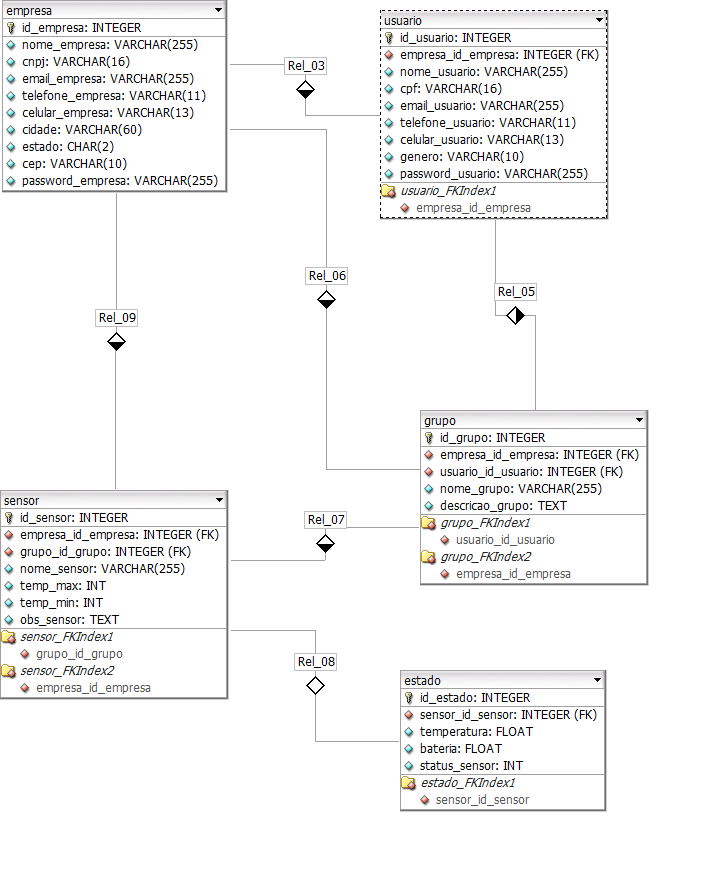
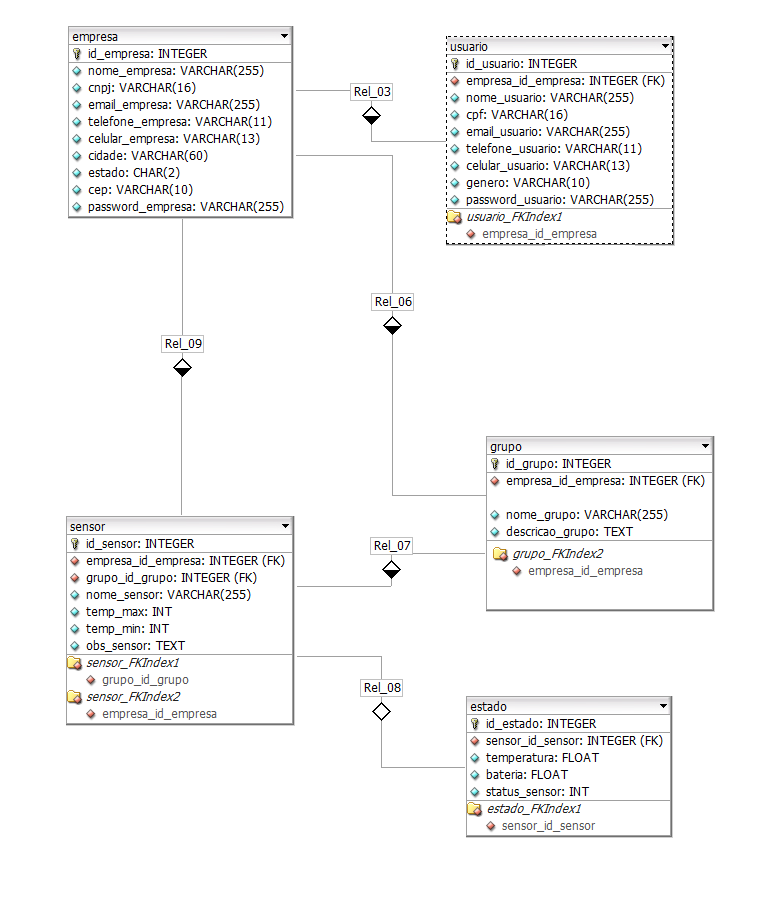
O site já está funcionando mais ou menos, mas ainda falta umas coisas aí. Checkpoint - Paramos no Obs do sensor

diff --git a/omega/resources/views/sensores/index.blade.php b/omega/resources/views/sensores/index.blade.php
@@ -5,10 +5,10 @@
         <h1 class="text-center">{{$data['grupo'] -> nome}}</h1>
         <div class="row float-right especifico" style="font-size: 30px; color: rgba(0,0,0,.50); padding: 0;">
             <div class="col-2" style="margin-right: 15px">
-                <a href="/sensores/{{$data['id']}}/create" class="gray-link"><i class="fas fa-plus"></i></a>
+                <a href="/sensores/{{$data['grupo'] -> id_grupo}}/create" class="gray-link"><i class="fas fa-plus"></i></a>
             </div>
             <div class="col-2">
-                <a href="/sensores/{{$data['grupo'] -> id}}/lista" class="gray-link"><i class="fas fa-list-ul"></i></a>
+                <a href="/sensores/{{$data['grupo'] -> id_grupo}}/lista" class="gray-link"><i class="fas fa-list-ul"></i></a>
             </div>
         </div>
         <div class="row col-12 mx-auto" style="padding: 20px 0 0 0;">
@@ -17,16 +17,16 @@
                     <!-- Card Personalizado -->
                     <div class="container-fluid col-md-4" style="padding-bottom: 75px; margin-bottom: 0">
                         <div class="row">
-                            <div class="col-6"><a href="/sensor/{{$sensor->id}}" class="gray-link" style="color: rgba(0,0,0,0.85); font-size: 25px">{{$sensor -> nome}}</a></div>
+                            <div class="col-6"><a href="/sensor/{{$sensor->id_sensor}}" class="gray-link" style="color: rgba(0,0,0,0.85); font-size: 25px">{{$sensor -> nome_sensor }}</a></div>
                             <div class="col-4 float-right my-auto">
                                 <p class=" float-right" style="color: #218536;">{{$sensor -> bateria}}% <i class="fas fa-battery-full iconBateria"></i></p>
                             </div>
                             <div class="col-2">
-                                <a class="gray-link" href="/sensor/{{$sensor -> id}}/edit"><i class="fas fa-cog d-inline float-right"></i></a>
+                                <a class="gray-link" href="/sensor/{{$sensor -> id_sensor}}/edit"><i class="fas fa-cog d-inline float-right"></i></a>
                             </div>
                         </div>
                             <div class="corpo">
-                                <div id="sensor{{$sensor -> id}}" class="mx-auto" style="width: 200px; height: 100px; padding-top: 10px">
+                                <div id="sensor{{$sensor -> id_sensor}}" class="mx-auto" style="width: 200px; height: 100px; padding-top: 10px">
                                 <!-- AQUI FICA O GRÁFICO -->
                                 </div>
                                 <div class="col text-right" style="margin-top: 50px;"><p class="hora" style="color: rgba(0,0,0,0.85)">{{$sensor -> updated_at}}</p></div>
@@ -36,7 +36,7 @@
                 @endforeach
             @else
                 <div class="alert alert-info col-12 text-center mx-auto" role="alert">
-                    Você não possui nenhum sensor, clique  <a href="/sensores/{{$data['id']}}/create" class="alert-link">aqui</a> para adicionar um.
+                    Você não possui nenhum sensor, clique  <a href="/sensores/{{$data['grupo'] -> id_grupo  }}/create" class="alert-link">aqui</a> para adicionar um.
                 </div>
             @endif
         </div>

diff --git a/omega/resources/views/pages/cadastro.blade.php b/omega/resources/views/pages/cadastro.blade.php
@@ -11,7 +11,7 @@
                 <h3>Empresa</h3>
                 <div class="form-row">
                     <!-- NOME DA EMPRESA -->
-                    <div class="form-group{{ $errors->has('nomeempresa') ? ' has-error' : '' }} col-md-6">
+                    <div class="form-group{{ $errors->has('nome_empresa') ? ' has-error' : '' }} col-md-6">
                         <label for="nome_empresa">Nome Empresa</label>
                         <input id="nome_empresa" type="text" class="form-control" name="nome_empresa" value="{{ old('nome_empresa') }}" required autofocus placeholder="Nome da empresa">
 
@@ -49,24 +49,24 @@
 
                     <!-- TELEFONE 1 -->
                     <div class="form-group col-md-3">
-                        <label for="telefone_1_empresa">Telefone</label>
-                        <input type="tel" class="form-control" id="telefone_1_empresa" name="telefone_1_empresa" value="{{ old('telefone_1_empresa') }}" data-mask="(00) 0000-0000" required placeholder="(00) 0000-0000">
+                        <label for="telefone_empresa">Telefone</label>
+                        <input type="tel" class="form-control" id="telefone_empresa" name="telefone_empresa" value="{{ old('telefone_empresa') }}" data-mask="(00) 0000-0000" required placeholder="(00) 0000-0000">
 
-                        @if ($errors->has('telefone_1_empresa'))
+                        @if ($errors->has('telefone_empresa'))
                             <span class="help-block">
-                                <strong>{{ $errors->first('telefone_1_empresa') }}</strong>
+                                <strong>{{ $errors->first('telefone_empresa') }}</strong>
                             </span>
                         @endif
                     </div>
 
                     <!-- TELEFONE 2 -->
                     <div class="form-group col-md-3">
-                        <label for="telefone_2_empresa">Celular</label>
-                        <input type="tel" class="form-control" id="telefone_2_empresa" name="telefone_2_empresa" value="{{ old('telefone_2_empresa') }}" data-mask="(00) 00000-0000" required placeholder="(00) 00000-0000">
+                        <label for="celular_empresa">Celular</label>
+                        <input type="tel" class="form-control" id="celular_empresa" name="celular_empresa" value="{{ old('celular_empresa') }}" data-mask="(00) 00000-0000" required placeholder="(00) 00000-0000">
 
-                        @if ($errors->has('telefone_2_empresa'))
+                        @if ($errors->has('celular_empresa'))
                             <span class="help-block">
-                                <strong>{{ $errors->first('telefone_2_empresa') }}</strong>
+                                <strong>{{ $errors->first('celular_empresa') }}</strong>
                             </span>
                         @endif
                     </div>

diff --git a/omega/resources/views/sensores/sensor.blade.php b/omega/resources/views/sensores/sensor.blade.php
@@ -2,15 +2,15 @@
 
 @section('content')
     <div class="container col-12">
-        <a class="gray-link" href="/sensores/{{$sensor -> grupo_id}}" style="font-size: 35px; position: relative; z-index: 999;"><i class="fas fa-long-arrow-alt-left"></i></a>
+        <a class="gray-link" href="/sensores/{{$sensor -> grupo_id_grupo}}" style="font-size: 35px; position: relative; z-index: 999;"><i class="fas fa-long-arrow-alt-left"></i></a>
         <div class="col-12" style="margin-top: -50px;">
-            <h1 class="text-center" style="color: #4b4b4b; margin-top: 10px;">{{$sensor -> nome}} #{{$sensor -> id}}</h1>
+            <h1 class="text-center" style="color: #4b4b4b; margin-top: 10px;">{{$sensor -> nome_sensor}} #{{$sensor -> id_sensor}}</h1>
         </div>
         <div class="container col-12" style="padding-top: 20px;">
            <div class="row container-temp-chart">
                 <!-- Temperatura -->
                 <div class="col-lg-6 col-md-12">
-                    <div id="sensor{{$sensor -> id}}" class="col-12 mx-auto" style="width: 400px; height: 200px; padding-top: 10px;">
+                    <div id="sensor{{$sensor -> id_sensor}}" class="col-12 mx-auto" style="width: 400px; height: 200px; padding-top: 10px;">
                         <!-- AQUI FICA O GRÁFICO -->
                     </div>
                 </div>
@@ -39,7 +39,7 @@
                    {!! Form::open(['action' => ['SensoresController@updateSensor', $sensor -> id], 'method' => 'POST']) !!}
                        {{Form::label('obs', 'Observações')}}
                        {{Form::textarea('obs', $sensor -> obs, ['class' => 'form-control', 'rows' => '6'])}}
-                   {{ Form::hidden('grupo_id', $sensor -> grupo_id)}}
+                   {{ Form::hidden('grupo_id', $sensor -> grupo_id_grupo)}}
                    {{Form::hidden('_method', 'PUT')}}
                    {{Form::submit('Salvar', ['class' => 'btn btn-outline-primary float-right', 'style' => 'margin-top: 5px'])}}
                    {!! Form::close() !!}

diff --git a/omega/resources/views/sensores/adicionarSensor.blade.php b/omega/resources/views/sensores/adicionarSensor.blade.php
@@ -2,21 +2,24 @@
 
 @section('content')
     <div class="container mx-auto" style="margin-top: 50px;">
+
+        <?php echo $id ?>
+
         <!-- GRUPO -->
         <div class="col-md-6 mx-auto">
             <h3>Adicionar Sensor</h3>
             {!! Form::open(['action' => 'SensoresController@store', 'method' => 'POST', 'novalidate', 'class' => 'needs-validation']) !!}
                 <div class="form-group">
-                    {{Form::label('nome', 'Nome')}}
-                    {{Form::text('nome', '', ['class' => 'form-control', 'placeholder' => 'Nome do Sensor', 'required'])}}
+                    {{Form::label('nome_sensor', 'Nome')}}
+                    {{Form::text('nome_sensor', '', ['class' => 'form-control', 'placeholder' => 'Nome do Sensor', 'required'])}}
                     <div class="invalid-feedback">
                         Campo Obrigatório
                     </div>
                 </div>
                 <div class="form-group">
-                    {{Form::label('id', 'ID')}}
+                    {{Form::label('id_sensor', 'ID')}}
                     <button type="button" class="btn btn-outline-info float-right" style="border: none;" data-toggle="modal" data-target="#modalSensorID"><i class="fas fa-question"></i></button>
-                    {{Form::text('id', '', ['class' => 'form-control', 'placeholder' => '00000000000', 'required'])}}
+                    {{Form::text('id_sensor', '', ['class' => 'form-control', 'placeholder' => '00000000000', 'required'])}}
                     <div class="invalid-feedback">
                         Campo Obrigatório
                     </div>
@@ -45,7 +48,7 @@
                     </div>
                 </div>
                 {{Form::submit('Adicionar', ['class' => 'btn btn-outline-primary float-right'])}}
-                {{ Form::hidden('grupo_id', $id)}}
+                {{ Form::hidden('grupo_id_grupo', $id)}}
             {!! Form::close() !!}
         </div>
     </div>

diff --git a/omega/app/Http/Controllers/SensoresController.php b/omega/app/Http/Controllers/SensoresController.php
@@ -34,11 +34,11 @@ class SensoresController extends Controller
         $grupo = Grupo::find($id);
 
         // Check for correct user
-        if (auth() -> user() -> id !== $grupo -> user_id){
+        if (auth() -> user() -> id_empresa !== $grupo -> empresa_id_empresa){
             return redirect('/grupos') -> with('error', 'Página não autorizada');
         }
 
-        return view('sensores.index') -> with( 'data', ['sensores' => $grupo -> sensores, 'id' => $id, 'grupo' => $grupo]);
+        return view('sensores.index') -> with( 'data', ['sensores' => $grupo -> sensores, 'grupo' => $grupo]);
 
     }
 
@@ -84,20 +84,21 @@ class SensoresController extends Controller
     public function store(Request $request)
     {
         $this -> validate($request, [
-            'nome' => 'required'
+            'nome_sensor' => 'required'
         ]);
 
         // Criar Sensor
         $sensor = new Sensor;
-        $sensor -> nome = $request -> input('nome');
-        $sensor -> id = $request -> input('id');
+        $sensor -> empresa_id_empresa = auth() -> user() -> id_empresa;
+        $sensor -> grupo_id_grupo = $request -> input('grupo_id_grupo');
+        $sensor -> nome_sensor = $request -> input('nome_sensor');
+        $sensor -> id_sensor = $request -> input('id_sensor');
         $sensor -> tempmax = $request -> input('tempmax');
         $sensor -> tempmin = $request -> input('tempmin');
         $sensor -> obs = $request -> input('obs');
-        $sensor -> grupo_id = $request -> input('grupo_id');
         $sensor -> save();
 
-        $id = $sensor -> grupo_id = $request -> input('grupo_id');
+        $id = $sensor -> grupo_id_grupo = $request -> input('grupo_id_grupo');
 
         return redirect('/sensores/'.$id) -> with('success', 'Sensor criado');
     }

diff --git a/omega/resources/views/grupos/index.blade.php b/omega/resources/views/grupos/index.blade.php
@@ -17,10 +17,10 @@
                         <div class="container-fluid col-md-4" style="margin-bottom: 30px">
                             <div class="row col-12">
                                 <div class="text-left col-8">
-                                    <a href="/sensores/{{$grupo -> id}}/" class="linkAzul"><h3>{{$grupo -> nome}}</h3></a>
+                                    <a href="/sensores/{{$grupo -> id_grupo}}/" class="linkAzul"><h3>{{$grupo -> nome_grupo}}</h3></a>
                                 </div>
                                 <div class="text-right col-4">
-                                    <a href="/grupos/{{$grupo -> id}}/edit" class="gray-link" style="font-size: 20px;"><i class="fas fa-cog" style=" vertical-align: middle"></i></a>
+                                    <a href="/grupos/{{$grupo -> id_grupo}}/edit" class="gray-link" style="font-size: 20px;"><i class="fas fa-cog" style=" vertical-align: middle"></i></a>
                                 </div>
                             </div>
                             <div class="col-12">
@@ -50,7 +50,7 @@
                                 </table>
                             </div>
                             <div class="text-right col-12" style="margin-top: -10px">
-                                <a href="/sensores/{{$grupo -> id}}/" class="linkAzul">Veja seus sensores</a>
+                                <a href="/sensores/{{$grupo -> id_grupo}}" class="linkAzul">Veja seus sensores</a>
                             </div>
                         </div>
                 @endforeach

diff --git a/omega/app/Http/Controllers/Auth/RegisterController.php b/omega/app/Http/Controllers/Auth/RegisterController.php
@@ -51,10 +51,10 @@ class RegisterController extends Controller
 
             // EMPRESA
             'nome_empresa' => 'required|string|max:255',
-            'cnpj' => 'required|string|max:20|unique:users',
-            'email_empresa' => 'required|string|max:255|unique:users',
-            'telefone_1_empresa' => 'required|string|max:15|unique:users',
-            'telefone_2_empresa' => 'string|max:15|unique:users',
+            'cnpj' => 'required|string|max:20|unique:empresa',
+            'email_empresa' => 'required|string|max:255|unique:empresa',
+            'telefone_empresa' => 'required|string|max:15|unique:empresa',
+            'celular_empresa' => 'string|max:15|unique:empresa',
             'cidade' => 'required|string|max:255',
             'estado' => 'required|string|max:2',
             'cep' => 'required|string|max:13',
@@ -86,8 +86,8 @@ class RegisterController extends Controller
             'nome_empresa' => $data['nome_empresa'],
             'cnpj' => $data['cnpj'],
             'email_empresa' => $data['email_empresa'],
-            'telefone_1_empresa' => $data['telefone_1_empresa'],
-            'telefone_2_empresa' => $data['telefone_2_empresa'],
+            'telefone_empresa' => $data['telefone_empresa'],
+            'celular_empresa' => $data['celular_empresa'],
             'cidade' => $data['cidade'],
             'estado' => $data['estado'],
             'cep' => $data['cep'],

diff --git a/omega/app/User.php b/omega/app/User.php
@@ -14,9 +14,14 @@ class User extends Authenticatable
      *
      * @var array
      */
+
+    protected $table = 'empresa';
+    protected $primaryKey = 'id_empresa';
+
+
     protected $fillable = [
-        /*'nome_empresa', 'cnpj', 'email_empresa', 'telefone_1_empresa', 'telefone_2_empresa', 'cidade', 'estado', 'cep',*/
-        'nome_usuario', 'cpf', 'email_usuario', 'telefone_usuario', 'celular_usuario', 'genero', 'password'
+        'nome_empresa', 'cnpj', 'email_empresa', 'telefone_empresa', 'celular_empresa', 'cidade', 'estado', 'cep', 'password'
+        /*'nome_usuario', 'cpf', 'email_usuario', 'telefone_usuario', 'celular_usuario', 'genero', 'password'*/
     ];
 
     /**
@@ -29,6 +34,11 @@ class User extends Authenticatable
     ];
 
     public function grupos(){
-        return $this -> hasMany('App\Grupo');
+        return $this -> hasMany('App\Grupo', 'empresa_id_empresa', 'id_empresa');
     }
+
+    public function sensores(){
+        return $this -> hasMany('App\Sensor', 'empresa_id_empresa');
+    }
+
 }

diff --git a/omega/app/Http/Controllers/GruposController.php b/omega/app/Http/Controllers/GruposController.php
@@ -26,7 +26,7 @@ class GruposController extends Controller
      */
     public function index()
     {
-        $user_id = auth() -> user() -> id_usuario;
+        $user_id = auth() -> user() -> id_empresa;
         $user = User::find($user_id);
         return view('grupos.index') -> with('grupos', $user -> grupos);
     }
@@ -66,9 +66,9 @@ class GruposController extends Controller
 
         // Criar Grupo
         $grupo = new Grupo;
-        $grupo -> nome = $request -> input('nome');
-        $grupo -> obs = $request -> input('obs');
-        $grupo -> user_id = auth() -> user() -> id;
+        $grupo -> nome_grupo = $request -> input('nome');
+        $grupo -> descricao_grupo = $request -> input('obs');
+        $grupo -> empresa_id_empresa = auth() -> user() -> id_empresa;
         $grupo -> save();
 
         return redirect('/grupos') -> with('success', 'Grupo criado');

diff --git a/omega/app/Grupo.php b/omega/app/Grupo.php
@@ -7,10 +7,11 @@ use Illuminate\Database\Eloquent\Model;
 class Grupo extends Model
 {
     public function user(){
-        return $this -> belongsTo('App\User');
+        return $this -> belongsTo('App\User', 'empresa_id_empresa');
     }
 
     public function sensores(){
-        return $this -> hasMany('App\Sensor');
+        return $this -> hasMany('App\Sensor', 'grupo_id_grupo');
     }
+    protected $primaryKey = 'id_grupo';
 }

diff --git a/omega/app/Sensor.php b/omega/app/Sensor.php
@@ -7,8 +7,10 @@ use Carbon;
 
 class Sensor extends Model
 {
+    protected $primaryKey = 'id_sensor';
+
     public function user(){
-        return $this -> belongsTo('App\Grupo', 'grupo_id', 'id');
+        return $this -> belongsTo('App\Grupo', 'grupo_id_grupo', 'empresa_id_empresa');
     }
 
     public function dados(){

diff --git a/omega/resources/views/inc/graficoRadial.blade.php b/omega/resources/views/inc/graficoRadial.blade.php
@@ -1,5 +1,5 @@
 <script>
-    var bar = new ProgressBar.SemiCircle('#sensor{{$sensor -> id}}', {
+    var bar = new ProgressBar.SemiCircle('#sensor{{$sensor -> id_sensor}}', {
         strokeWidth: 6,
         color: '#FFEA82',
         trailColor: '#eee',
